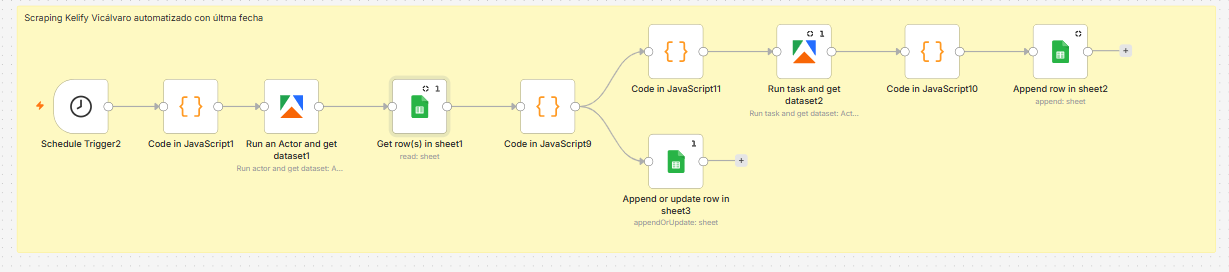
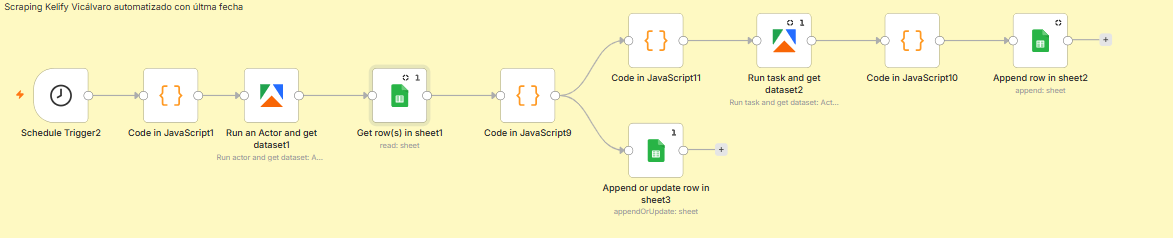
cambios en imagenes

Changed region(s): [[0.0, 0.0, 1.0, 1.0], [0.3069, 0.2647, 0.3683, 0.2941], [0.2148, 0.2647, 0.2455, 0.2941]]

diff --git a/scrappingmultiportal.php b/scrappingmultiportal.php
@@ -11,6 +11,11 @@ foreach ($proyectos["automatizaciones"] as $item) {
     }
 }
 
+if($proyecto==null){
+    header("Location: index.php");
+    exit;
+}
+
 $titulo = $proyecto["titulo"];
 $descripcion = $proyecto["descripcion"];
 $categoria = "Automatización e IA";
@@ -54,24 +59,20 @@ $descripcionlarga = $proyecto["descripcionlarga"];
             <?= $descripcionlarga ?> 
         </p>
 
-    </section>
-
-
-    <section class="seccion-proyecto">
-
         <div class="proyecto-imagen-principal">
 
-            <a
-                href="assets/img/scrappingbots/kelify2.png"
-                target="_blank"
-            >
-                <img
-                    src="assets/img/scrappingbots/kelify2.png"
-                    alt="Flujo principal de scraping en n8n"
-                >
-            </a>
+            <a href="assets/img/scrappingbots/resultado.png"
+               target="_blank">
 
+                <img
+                    src="assets/img/scrappingbots/resultado.png"
+                    alt="Captura de los datos extraidos del scraping en el sheet"
+                    loading="lazy">
+
+            </a>
         </div>
+
+
 
     </section>
 
@@ -84,15 +85,14 @@ $descripcionlarga = $proyecto["descripcionlarga"];
                 El reto
             </h2>
 
-        </div>
-
         <p>
-            Recopilar información de posibles leads de forma manual en portales web exige mucho tiempo: hay que entrar página por página, buscar los datos relevantes y organizarlos, lo que dificulta procesar grandes volúmenes de forma eficiente.
+            <strong>Recopilar información de posibles leads</strong> de forma manual en portales web exige mucho tiempo: hay que entrar página por página, buscar los datos relevantes y organizarlos, lo que dificulta procesar grandes volúmenes de forma eficiente.
         </p>
 
         <p>
-            Al intentar automatizar este proceso, las herramientas de scraping tradicionales se quedan cortas. Muchos de estos portales imponen barreras de acceso: exigen iniciar sesión con cuenta, aceptar cookies, seleccionar ubicaciones manualmente o navegar haciendo clics hasta llegar al dato clave.
+            Además, automatizar esta tarea no siempre es sencillo: cada portal tiene una estructura y unas condiciones de acceso diferentes. Se puede requerir iniciar sesión, aceptar cookies, o interactuar con distintos elementos de la página para llegar a la información necesaria.
         </p>
+            </div>
 
     </section>
 
@@ -106,15 +106,32 @@ $descripcionlarga = $proyecto["descripcionlarga"];
             </h2>
 
             <p>
-                Desarrollar un sistema de scraping personalizado e integrado con n8n, capaz de adaptar la extracción de información a las características de cada portal web.
+                Desarrollar un sistema de scraping personalizado e integrado con <strong>n8n</strong>, capaz de adaptar la extracción de información a las características de cada portal web.
             </p>
 
             <p>
-                Tras un análisis previo de la estructura del sitio web, estos bots se configuran para iniciar sesión, aceptar avisos de cookies y navegar por la web haciendo los clics necesarios. De esta manera localizan de forma precisa los datos clave (como nombres y teléfonos) que serán utilizados en acciones comerciales, como el envío automatizado de mensajes por WhatsApp.
+                Tras analizar cada web, <strong>se configuran bots personalizados para cada portal, así se pueden localizar los datos relevantes</strong> y organizar la información para su uso en acciones comerciales. Aunque se aplica actualmente al sector inmobiliario, el sistema puede adaptarse a otras webs y necesidades.
             </p>
-            
-        </div>
+
+            </div>
+
+            <div class="proyecto-imagen-principal">
+
+                <a href="assets/img/scrappingbots/kelify2.png"
+                   target="_blank">
+
+                    <img
+                        src="assets/img/scrappingbots/kelify2.png"
+                        alt="Flujo de captación y extracción de datos de empresas"
+                        loading="lazy">
+
+                </a>
+            </div>
+    
+        
     </section>
+
+    
 
 
         <!-- =====================================================
@@ -125,7 +142,7 @@ $descripcionlarga = $proyecto["descripcionlarga"];
             <div class="cabecera-seccion">
                 <h2>Proceso de automatización</h2>
                 <p>
-                    El objetivo es extraer de forma masiva los datos de contacto y características de inmuebles automatizando el rastreo en diferentes portales de vivienda de Madrid. Dependiendo de las restricciones de cada plataforma (como Milanuncios, Fotocasa o Kelify), el flujo adapta su estrategia de extracción.
+                    El flujo comienza con la búsqueda de anuncios en distintos portales inmobiliarios, continúa con la extracción de información y termina con el almacenamiento de los datos obtenidos en Google Sheets.
                 </p>
             </div>
 
@@ -135,22 +152,21 @@ $descripcionlarga = $proyecto["descripcionlarga"];
                 <article class="bloque-tecnico">
                     <h3>01 · Búsqueda paramétrica y control de duplicados</h3>
                     <p>
-                        A través de triggers en <strong>n8n</strong> y formularios de selección de zona (como Arganzuela, Vicálvaro o Moratalaz), el sistema genera las URLs de búsqueda de pisos. Antes de ejecutar la extracción, contrasta los listados con <strong>Google Sheets</strong> para procesar únicamente los anuncios nuevos y evitar duplicidades.
+                        Mediante parámetros de búsqueda se seleccionan las ubicaciones en las que buscar pisos. A partir de esa selección, Web Scraper <strong>localiza los anuncios y recopila sus URL</strong> para identificar las viviendas que se van a analizar. Antes de procesar los resultados, contrasta las URL con los registros de Google Sheets para detectar anuncios ya registrados y <strong>evitar duplicados</strong>.
                     </p>
+              
                     <div class="proyecto-imagen-principal">
-                        <a href="assets/img/scrappingbots/kelify.png" target="_blank">
-                            <img src="assets/img/scrappingbots/kelify.png" alt="Generación de búsquedas y filtrado de URLs de pisos" loading="lazy">
+                        <a href="assets/img/scrappingbots/web_scrapper.png" target="_blank">
+                            <img src="assets/img/scrappingbots/web_scrapper.png" alt="Generación de URLs" loading="lazy">
                         </a>
                     </div>
                 </article>
 
                 <!-- FASE 2 -->
                 <article class="bloque-tecnico">
-                    <h3>02 · Dos vías de ejecución: Scraping directo o Actores con Playwright</h3>
+                    <h3>02 · Navegación automatizada y extracción de datos</h3>
                     <p>
-                        Dependiendo del portal inmobiliario, el flujo actúa de dos formas: 
-                        <br>• <strong>Sin autenticación:</strong> Recorre listados públicos de viviendas (Milanuncios o Fotocasa) extrayendo títulos, nombres de particulares y URLs directamente.
-                        <br>• <strong>Con autenticación (Actor Playwright personalizado con JS):</strong> Inicia sesión con credenciales, acepta cookies y navega por zonas restringidas de los anuncios de pisos de forma interactiva (Kelify).
+                        Una vez recopiladas las URL, el sistema las envía a un <strong>actor personalizado</strong> desarrollado con JavaScript y Playwright en Apify, que procesa los anuncios uno a uno. El actor automatiza la navegación por el portal, inicia sesión cuando es necesario, gestiona las cookies y accede a cada ficha como lo haría un usuario desde el navegador. De esta forma, puede recorrer los anuncios y extraer la información necesaria mediante selectores CSS.
                     </p>
                     <div class="proyecto-imagen-principal">
                         <a href="assets/img/scrappingbots/actor_personalizado.png" target="_blank">
@@ -161,9 +177,9 @@ $descripcionlarga = $proyecto["descripcionlarga"];
 
                 <!-- FASE 3 -->
                 <article class="bloque-tecnico">
-                    <h3>03 · Extracción y volcado centralizado</h3>
+                    <h3>03 · Procesamiento y almacenamiento de datos</h3>
                     <p>
-                        Mediante selectores CSS adaptados a cada web de vivienda, los bots extraen los datos deseados de los inmuebles (precios, metros cuadrados, teléfonos y nombres de particulares). Toda la información estructurada se centraliza de forma limpia en Google Sheets, lista para disparar flujos comerciales como WhatsApp.
+                        Tras la extracción de los campos de interés de cada anuncio, los datos se organizan y almacenan en Google Sheets, donde quedan centralizados y preparados para su consulta y para integrarlos en otras automatizaciones comerciales, como el envío de mensajes por WhatsApp.
                     </p>
                     <div class="proyecto-imagen-principal">
                         <a href="assets/img/scrappingbots/limpieza_datos.png" target="_blank">
@@ -187,7 +203,7 @@ $descripcionlarga = $proyecto["descripcionlarga"];
         </div>
 
         <p>
-            Hemos construido un sistema automatizado y escalable capaz de extraer diariamente los nuevos anuncios de pisos en diferentes portales inmobiliarios, superando barreras como inicios de sesión o restricciones de cookies.
+            Se ha construido un sistema automatizado y escalable capaz de extraer diariamente los nuevos anuncios de pisos en diferentes portales inmobiliarios, superando barreras como inicios de sesión o restricciones de cookies.
         </p>
 
         <p>
@@ -218,8 +234,7 @@ $descripcionlarga = $proyecto["descripcionlarga"];
                 </h3>
 
                 <p>
-                    Orquestación de workflows, procesamiento de datos,
-                    filtros y conexión entre servicios.
+                    Entorno principal desde el que se organiza y ejecuta la automatización.
                 </p>
 
             </article>
@@ -232,8 +247,7 @@ $descripcionlarga = $proyecto["descripcionlarga"];
                 </h3>
 
                 <p>
-                    Ejecución de los actores encargados de recorrer las webs
-                    y obtener la información.
+                    Plataforma en la nube integrada con n8n que permite ejecutar las herramientas de scraping y los actores personalizados encargados de localizar anuncios y extraer información de los portales inmobiliarios.
                 </p>
 
             </article>
@@ -246,8 +260,7 @@ $descripcionlarga = $proyecto["descripcionlarga"];
                 </h3>
 
                 <p>
-                    Automatización del navegador utilizada en el actor
-                    personalizado.
+                    Actor de Apify basado en Playwright, personalizado mediante código para desarrollar bots que navegan automáticamente por los portales web.
                 </p>
 
             </article>
@@ -260,8 +273,7 @@ $descripcionlarga = $proyecto["descripcionlarga"];
                 </h3>
 
                 <p>
-                    Desarrollo de lógica personalizada para procesar,
-                    filtrar y transformar los datos.
+                    Lenguaje utilizado tanto para desarrollar la lógica de los actores personalizados de scraping como para crear pequeños fragmentos de código en n8n que permiten procesar los datos entre las distintas etapas de la automatización.
                 </p>
 
             </article>
@@ -270,7 +282,7 @@ $descripcionlarga = $proyecto["descripcionlarga"];
             <article class="bloque-tecnico">
 
                 <h3>
-                    Web Scraping
+                    Web Scrapper
                 </h3>
 
                 <p>

diff --git a/agentewhatsApp.php b/agentewhatsApp.php
@@ -57,6 +57,17 @@ $descripcionlarga=$proyecto["descripcionlarga"];
            <?=$descripcionlarga?>
         </p>
 
+        <div class="proyecto-imagen-principal">
+
+            <a href="assets/img/agenteWhatsapp/resultadowhatsap.png" target="_blank">
+
+                <img src="assets/img/agenteWhatsapp/resultadowhatsap.png"
+                     alt="Posible resultado del flujo">
+
+            </a>
+
+        </div>
+
     </section>
 
 
@@ -94,14 +105,29 @@ $descripcionlarga=$proyecto["descripcionlarga"];
             <h2>La solución</h2>
 
             <p>
-                Un agente de IA escribe por WhatsApp a una lista de contactos, mantiene la conversación con los que responden y deja todo
-                registrado para que la persona que atiende solo tenga que
-                ocuparse de los contactos que de verdad le interesan.
-                Cada contacto acaba en uno de estos tres sitios:
+                Un agente de IA escribe por WhatsApp a una lista de contactos, mantiene la conversación y deja todo registrado para que la persona que atiende solo tenga que ocuparse de los contactos que de verdad le interesan. 
+            </p>
+            <p>El sistema está compuesto por tres flujos en n8n conectados entre sí: envío de mensajes, conversación con el agente y reactivación de los que no responden. Estos comparten la información necesaria para gestionar los contactos
             </p>
 
         </div>
+            
+            <div class="proyecto-imagen-principal">
 
+                <a href="assets/img/agenteWhatsapp/flujo_completo.png" target="_blank">
+
+                    <img src="assets/img/agenteWhatsapp/flujo_completo.png"
+                         alt="Flujo completo de la automatización del agente de WhatsApp">
+
+                </a>
+
+            </div>
+        <div class="cabecera-seccion">
+            <p>
+La información de los contactos se organiza en tres registros según su estado y evolución:
+            </p>
+
+        </div>
 
         <div class="bloques-tecnicos">
 
@@ -128,7 +154,7 @@ $descripcionlarga=$proyecto["descripcionlarga"];
                 <p>
                     Cuando alguien acepta una llamada, el agente crea el evento en
                     el calendario del equipo y lo apunta también en una hoja de
-                    agendados, para que quede todo registrado en un solo sitio.
+                    agendados, para que quede todo registrado.
                 </p>
             </article>
 
@@ -136,38 +162,6 @@ $descripcionlarga=$proyecto["descripcionlarga"];
 
     </section>
 
-
-    <!-- =====================================================
-         ARQUITECTURA DE LA AUTOMATIZACIÓN
-         ===================================================== -->
-
-    <section class="seccion-proyecto">
-
-        <div class="cabecera-seccion">
-
-            <h2>
-                Arquitectura de la automatización
-            </h2>
-
-            <p>
-                El sistema está compuesto por tres flujos en n8n conectados entre sí: envío de mensajes, conversación con el agente y reactivación de los que no responden. Estos comparten la información necesaria para gestionar los contactos.
-
-            </p>
-
-        </div>
-
-        <div class="proyecto-imagen-principal">
-
-            <a href="assets/img/agenteWhatsapp/flujo_completo.png" target="_blank">
-
-                <img src="assets/img/agenteWhatsapp/flujo_completo.png"
-                     alt="Flujo completo de la automatización del agente de WhatsApp">
-
-            </a>
-
-        </div>
-
-    </section>
 
             <!-- =====================================================
                  PROCESO DE AUTOMATIZACIÓN
@@ -180,7 +174,7 @@ $descripcionlarga=$proyecto["descripcionlarga"];
                     <h2>Proceso de automatización</h2>
 
                     <p>
-                        Desglose por fases de los circuitos implementados en el workflow.
+                        El proceso se divide en varias fases que abarcan el envío de mensajes, la gestión de respuestas y el seguimiento automático de los contactos.
                     </p>
 
                 </div>

diff --git a/data/proyectos.php b/data/proyectos.php
@@ -76,8 +76,8 @@ $proyectos = [
         ],
         [
             "titulo" => "Scraping avanzado con bots personalizados",
-            "descripcion" => "Sistema automatizado con bots capaces de navegar e interactuar con diferentes páginas web para extraer información.",
-            "descripcionlarga" => "Sistema de scraping automatizado con bots capaces de navegar e interactuar con páginas web para obtener información que no puede extraerse mediante un scraping convencional, reduciendo así el trabajo manual necesario para recopilar y preparar estos datos.",
+            "descripcion" => "Sistema de scraping personalizado que automatiza la navegación web y la extracción de información, adaptable a distintos portales y necesidades de negocio.",
+            "descripcionlarga" => "Sistema de scraping automatizado mediante bots personalizados capaces de navegar e interactuar con diferentes páginas web para recopilar información que requiere procesos de extracción específicos. Aplicado actualmente al sector inmobiliario, permite automatizar la búsqueda de anuncios, extraer datos relevantes y organizar los resultados. Su enfoque modular permite adaptar la solución a otros sectores y objetivos de recopilación de información.",
             "tecnologias" => ["n8n", "Apify", "Playwright", "JavaScript", "Web Scraping"],
             "capturas" => [
                 "preparacion_urls.png",
